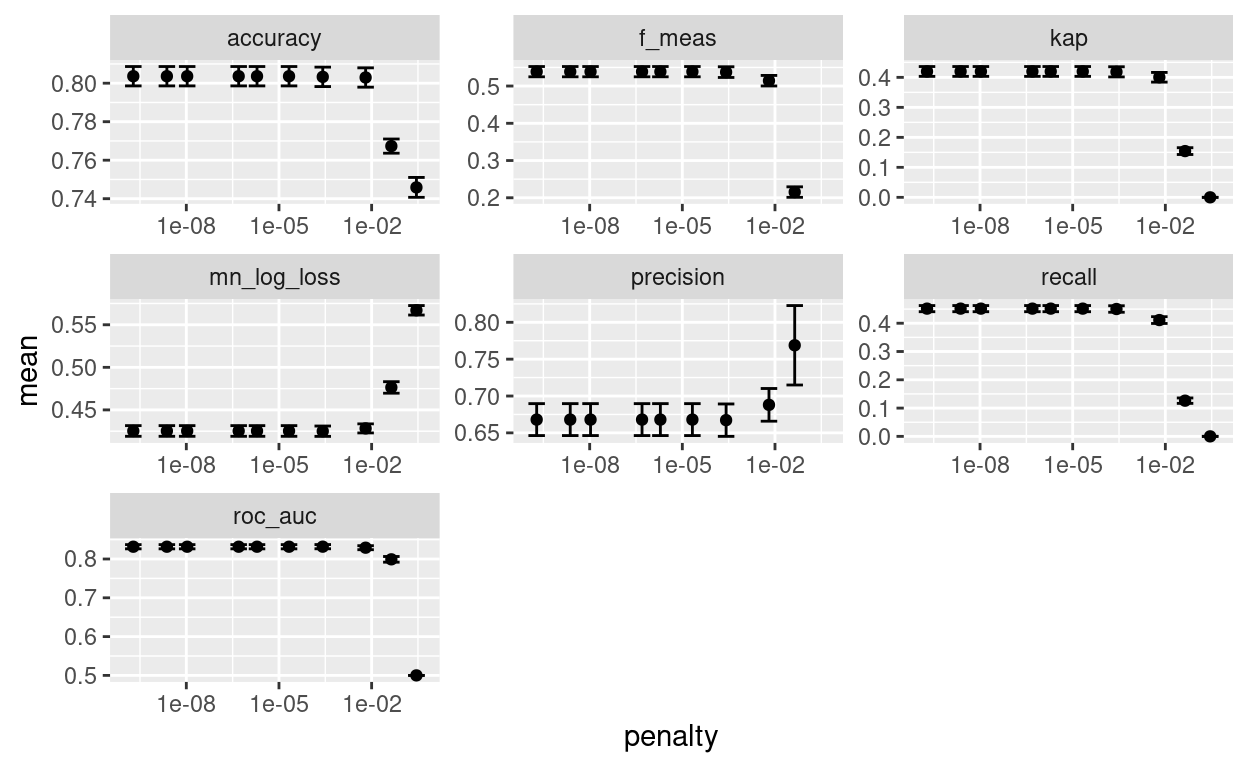
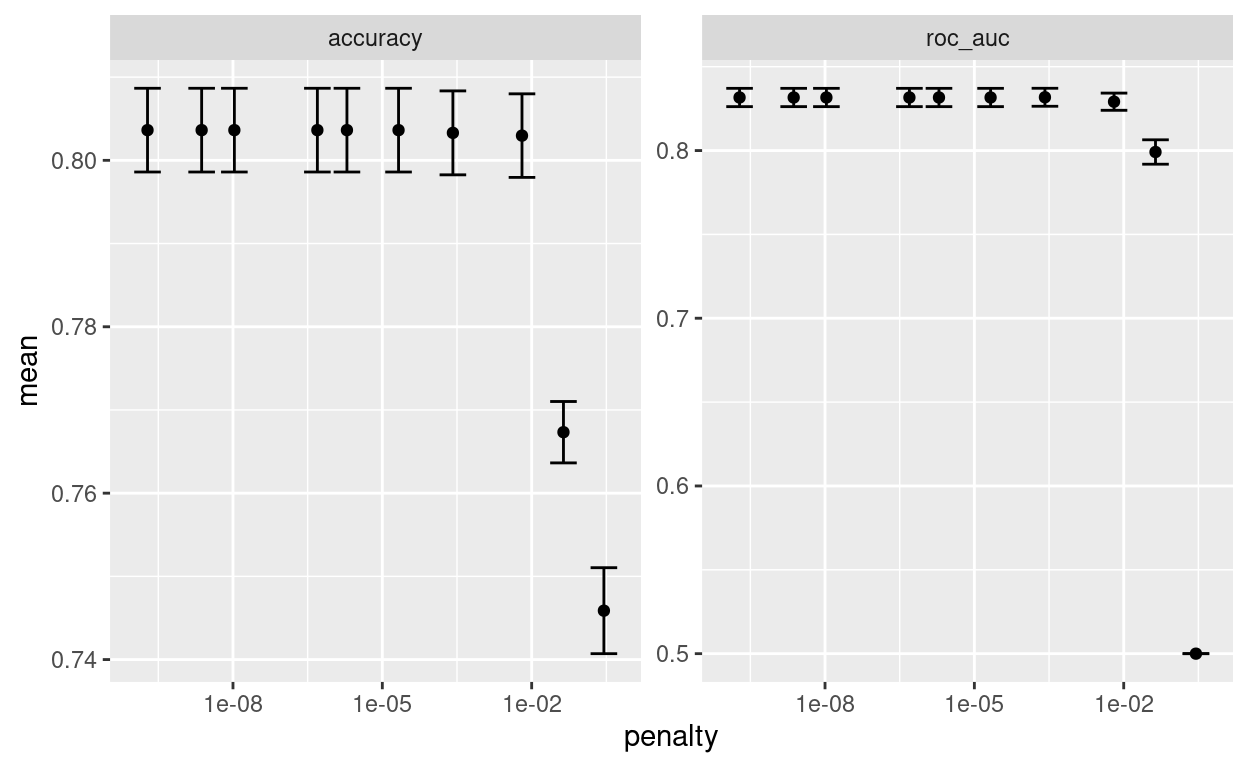
a

diff --git a/_posts/2021-05-12-regresso-logstica/regresso-logstica.html b/_posts/2021-05-12-regresso-logstica/regresso-logstica.html
@@ -1501,6 +1501,7 @@ code span.wa { color: #5e5e5e; font-style: italic; } /* Warning */
 </ul></li>
 <li><a href="#passo-7-modelo-final">PASSO 7) MODELO FINAL</a></li>
 </ul></li>
+<li><a href="#exemplo-de-dashboard-link"><span>EXEMPLO DE DASHBOARD (link)</span></a></li>
 </ul>
 </nav>
 </div>
@@ -2035,12 +2036,12 @@ $ Price     &lt;int&gt; 846, 1658, 2985, 1325, 910, 1645, 1800, 1093, 1957…</c
   resamples <span class='op'>=</span> <span class='va'>credit_resamples</span>,
   metrics <span class='op'>=</span> <span class='fu'>metric_set</span><span class='op'>(</span>
     <span class='va'>accuracy</span>, 
-    <span class='va'>kap</span>, <span class='co'># KAPPA </span>
-    <span class='va'>roc_auc</span>, 
-    <span class='va'>precision</span>, 
-    <span class='va'>recall</span>, 
-    <span class='va'>f_meas</span>, 
-    <span class='va'>mn_log_loss</span> <span class='co'>#binary cross entropy</span>
+    <span class='va'>roc_auc</span>
+    <span class='co'># kap, # KAPPA </span>
+    <span class='co'># precision, </span>
+    <span class='co'># recall, </span>
+    <span class='co'># f_meas, </span>
+    <span class='co'># mn_log_loss #binary cross entropy</span>
   <span class='op'>)</span>
 <span class='op'>)</span>
 
@@ -2054,20 +2055,29 @@ $ Price     &lt;int&gt; 846, 1658, 2985, 1325, 910, 1645, 1800, 1093, 1957…</c
 <span class='fu'>collect_metrics</span><span class='op'>(</span><span class='va'>credit_lr_tune_grid</span><span class='op'>)</span>
 </code></pre>
 </div>
-<pre><code># A tibble: 70 x 7
-    penalty .metric    .estimator  mean     n std_err .config         
-      &lt;dbl&gt; &lt;chr&gt;      &lt;chr&gt;      &lt;dbl&gt; &lt;int&gt;   &lt;dbl&gt; &lt;chr&gt;           
- 1 1.92e-10 accuracy   binary     0.804     5 0.00503 Preprocessor1_M…
- 2 1.92e-10 f_meas     binary     0.539     5 0.0138  Preprocessor1_M…
- 3 1.92e-10 kap        binary     0.420     5 0.0164  Preprocessor1_M…
- 4 1.92e-10 mn_log_lo… binary     0.425     5 0.00626 Preprocessor1_M…
- 5 1.92e-10 precision  binary     0.668     5 0.0217  Preprocessor1_M…
- 6 1.92e-10 recall     binary     0.452     5 0.0108  Preprocessor1_M…
- 7 1.92e-10 roc_auc    binary     0.832     5 0.00546 Preprocessor1_M…
- 8 2.35e- 9 accuracy   binary     0.804     5 0.00503 Preprocessor1_M…
- 9 2.35e- 9 f_meas     binary     0.539     5 0.0138  Preprocessor1_M…
-10 2.35e- 9 kap        binary     0.420     5 0.0164  Preprocessor1_M…
-# … with 60 more rows</code></pre>
+<pre><code># A tibble: 20 x 7
+    penalty .metric  .estimator  mean     n std_err .config           
+      &lt;dbl&gt; &lt;chr&gt;    &lt;chr&gt;      &lt;dbl&gt; &lt;int&gt;   &lt;dbl&gt; &lt;chr&gt;             
+ 1 1.92e-10 accuracy binary     0.804     5 0.00503 Preprocessor1_Mod…
+ 2 1.92e-10 roc_auc  binary     0.832     5 0.00546 Preprocessor1_Mod…
+ 3 2.35e- 9 accuracy binary     0.804     5 0.00503 Preprocessor1_Mod…
+ 4 2.35e- 9 roc_auc  binary     0.832     5 0.00546 Preprocessor1_Mod…
+ 5 1.07e- 8 accuracy binary     0.804     5 0.00503 Preprocessor1_Mod…
+ 6 1.07e- 8 roc_auc  binary     0.832     5 0.00546 Preprocessor1_Mod…
+ 7 4.96e- 7 accuracy binary     0.804     5 0.00503 Preprocessor1_Mod…
+ 8 4.96e- 7 roc_auc  binary     0.832     5 0.00546 Preprocessor1_Mod…
+ 9 1.95e- 6 accuracy binary     0.804     5 0.00503 Preprocessor1_Mod…
+10 1.95e- 6 roc_auc  binary     0.832     5 0.00546 Preprocessor1_Mod…
+11 2.12e- 5 accuracy binary     0.804     5 0.00503 Preprocessor1_Mod…
+12 2.12e- 5 roc_auc  binary     0.832     5 0.00546 Preprocessor1_Mod…
+13 2.61e- 4 accuracy binary     0.803     5 0.00504 Preprocessor1_Mod…
+14 2.61e- 4 roc_auc  binary     0.832     5 0.00537 Preprocessor1_Mod…
+15 6.39e- 3 accuracy binary     0.803     5 0.00502 Preprocessor1_Mod…
+16 6.39e- 3 roc_auc  binary     0.829     5 0.00513 Preprocessor1_Mod…
+17 4.35e- 2 accuracy binary     0.767     5 0.00369 Preprocessor1_Mod…
+18 4.35e- 2 roc_auc  binary     0.799     5 0.00727 Preprocessor1_Mod…
+19 2.82e- 1 accuracy binary     0.746     5 0.00517 Preprocessor1_Mod…
+20 2.82e- 1 roc_auc  binary     0.5       5 0       Preprocessor1_Mod…</code></pre>
 <div class="sourceCode">
 <pre class="sourceCode r"><code class="sourceCode r"><span class='fu'>collect_metrics</span><span class='op'>(</span><span class='va'>credit_lr_tune_grid</span><span class='op'>)</span> <span class='op'>%&gt;%</span>
   <span class='fu'>ggplot</span><span class='op'>(</span><span class='fu'>aes</span><span class='op'>(</span>x <span class='op'>=</span> <span class='va'>penalty</span>, y <span class='op'>=</span> <span class='va'>mean</span><span class='op'>)</span><span class='op'>)</span> <span class='op'>+</span>
@@ -2189,7 +2199,7 @@ Prediction bad good
 </code></pre>
 </div>
 </div>
-<p><a href="https://curso-r.github.io/202104-intro-ml/exemplos/11-report-credit-data.html">EXEMPLO DE DASHBOARD</a></p>
+<h1 id="exemplo-de-dashboard-link"><a href="https://curso-r.github.io/202104-intro-ml/exemplos/11-report-credit-data.html">EXEMPLO DE DASHBOARD (link)</a></h1>
 <div class="sourceCode" id="cb10"><pre class="sourceCode r distill-force-highlighting-css"><code class="sourceCode r"></code></pre></div>
 <!--radix_placeholder_article_footer-->
 <!--/radix_placeholder_article_footer-->

diff --git a/_site/posts/2021-05-12-regresso-logstica/index.html b/_site/posts/2021-05-12-regresso-logstica/index.html
@@ -2121,6 +2121,7 @@ document.addEventListener('DOMContentLoaded', function() {
 </ul></li>
 <li><a href="#passo-7-modelo-final">PASSO 7) MODELO FINAL</a></li>
 </ul></li>
+<li><a href="#exemplo-de-dashboard-link"><span>EXEMPLO DE DASHBOARD (link)</span></a></li>
 </ul>
 </nav>
 </div>
@@ -2655,12 +2656,12 @@ $ Price     &lt;int&gt; 846, 1658, 2985, 1325, 910, 1645, 1800, 1093, 1957…</c
   resamples <span class='op'>=</span> <span class='va'>credit_resamples</span>,
   metrics <span class='op'>=</span> <span class='fu'>metric_set</span><span class='op'>(</span>
     <span class='va'>accuracy</span>, 
-    <span class='va'>kap</span>, <span class='co'># KAPPA </span>
-    <span class='va'>roc_auc</span>, 
-    <span class='va'>precision</span>, 
-    <span class='va'>recall</span>, 
-    <span class='va'>f_meas</span>, 
-    <span class='va'>mn_log_loss</span> <span class='co'>#binary cross entropy</span>
+    <span class='va'>roc_auc</span>
+    <span class='co'># kap, # KAPPA </span>
+    <span class='co'># precision, </span>
+    <span class='co'># recall, </span>
+    <span class='co'># f_meas, </span>
+    <span class='co'># mn_log_loss #binary cross entropy</span>
   <span class='op'>)</span>
 <span class='op'>)</span>
 
@@ -2674,20 +2675,29 @@ $ Price     &lt;int&gt; 846, 1658, 2985, 1325, 910, 1645, 1800, 1093, 1957…</c
 <span class='fu'>collect_metrics</span><span class='op'>(</span><span class='va'>credit_lr_tune_grid</span><span class='op'>)</span>
 </code></pre>
 </div>
-<pre><code># A tibble: 70 x 7
-    penalty .metric    .estimator  mean     n std_err .config         
-      &lt;dbl&gt; &lt;chr&gt;      &lt;chr&gt;      &lt;dbl&gt; &lt;int&gt;   &lt;dbl&gt; &lt;chr&gt;           
- 1 1.92e-10 accuracy   binary     0.804     5 0.00503 Preprocessor1_M…
- 2 1.92e-10 f_meas     binary     0.539     5 0.0138  Preprocessor1_M…
- 3 1.92e-10 kap        binary     0.420     5 0.0164  Preprocessor1_M…
- 4 1.92e-10 mn_log_lo… binary     0.425     5 0.00626 Preprocessor1_M…
- 5 1.92e-10 precision  binary     0.668     5 0.0217  Preprocessor1_M…
- 6 1.92e-10 recall     binary     0.452     5 0.0108  Preprocessor1_M…
- 7 1.92e-10 roc_auc    binary     0.832     5 0.00546 Preprocessor1_M…
- 8 2.35e- 9 accuracy   binary     0.804     5 0.00503 Preprocessor1_M…
- 9 2.35e- 9 f_meas     binary     0.539     5 0.0138  Preprocessor1_M…
-10 2.35e- 9 kap        binary     0.420     5 0.0164  Preprocessor1_M…
-# … with 60 more rows</code></pre>
+<pre><code># A tibble: 20 x 7
+    penalty .metric  .estimator  mean     n std_err .config           
+      &lt;dbl&gt; &lt;chr&gt;    &lt;chr&gt;      &lt;dbl&gt; &lt;int&gt;   &lt;dbl&gt; &lt;chr&gt;             
+ 1 1.92e-10 accuracy binary     0.804     5 0.00503 Preprocessor1_Mod…
+ 2 1.92e-10 roc_auc  binary     0.832     5 0.00546 Preprocessor1_Mod…
+ 3 2.35e- 9 accuracy binary     0.804     5 0.00503 Preprocessor1_Mod…
+ 4 2.35e- 9 roc_auc  binary     0.832     5 0.00546 Preprocessor1_Mod…
+ 5 1.07e- 8 accuracy binary     0.804     5 0.00503 Preprocessor1_Mod…
+ 6 1.07e- 8 roc_auc  binary     0.832     5 0.00546 Preprocessor1_Mod…
+ 7 4.96e- 7 accuracy binary     0.804     5 0.00503 Preprocessor1_Mod…
+ 8 4.96e- 7 roc_auc  binary     0.832     5 0.00546 Preprocessor1_Mod…
+ 9 1.95e- 6 accuracy binary     0.804     5 0.00503 Preprocessor1_Mod…
+10 1.95e- 6 roc_auc  binary     0.832     5 0.00546 Preprocessor1_Mod…
+11 2.12e- 5 accuracy binary     0.804     5 0.00503 Preprocessor1_Mod…
+12 2.12e- 5 roc_auc  binary     0.832     5 0.00546 Preprocessor1_Mod…
+13 2.61e- 4 accuracy binary     0.803     5 0.00504 Preprocessor1_Mod…
+14 2.61e- 4 roc_auc  binary     0.832     5 0.00537 Preprocessor1_Mod…
+15 6.39e- 3 accuracy binary     0.803     5 0.00502 Preprocessor1_Mod…
+16 6.39e- 3 roc_auc  binary     0.829     5 0.00513 Preprocessor1_Mod…
+17 4.35e- 2 accuracy binary     0.767     5 0.00369 Preprocessor1_Mod…
+18 4.35e- 2 roc_auc  binary     0.799     5 0.00727 Preprocessor1_Mod…
+19 2.82e- 1 accuracy binary     0.746     5 0.00517 Preprocessor1_Mod…
+20 2.82e- 1 roc_auc  binary     0.5       5 0       Preprocessor1_Mod…</code></pre>
 <div class="sourceCode">
 <pre class="sourceCode r"><code class="sourceCode r"><span class='fu'>collect_metrics</span><span class='op'>(</span><span class='va'>credit_lr_tune_grid</span><span class='op'>)</span> <span class='op'>%&gt;%</span>
   <span class='fu'>ggplot</span><span class='op'>(</span><span class='fu'>aes</span><span class='op'>(</span>x <span class='op'>=</span> <span class='va'>penalty</span>, y <span class='op'>=</span> <span class='va'>mean</span><span class='op'>)</span><span class='op'>)</span> <span class='op'>+</span>
@@ -2809,7 +2819,7 @@ Prediction bad good
 </code></pre>
 </div>
 </div>
-<p><a href="https://curso-r.github.io/202104-intro-ml/exemplos/11-report-credit-data.html">EXEMPLO DE DASHBOARD</a></p>
+<h1 id="exemplo-de-dashboard-link"><a href="https://curso-r.github.io/202104-intro-ml/exemplos/11-report-credit-data.html">EXEMPLO DE DASHBOARD (link)</a></h1>
 <div class="sourceCode" id="cb10"><pre class="sourceCode r distill-force-highlighting-css"><code class="sourceCode r"></code></pre></div>
 <!--radix_placeholder_article_footer-->
 <!--/radix_placeholder_article_footer-->
